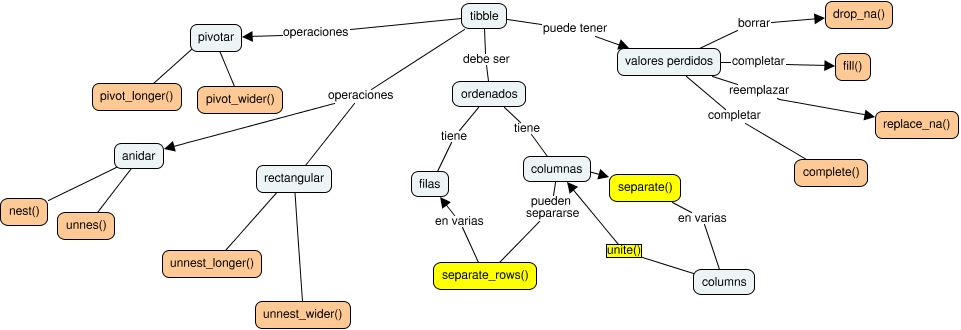
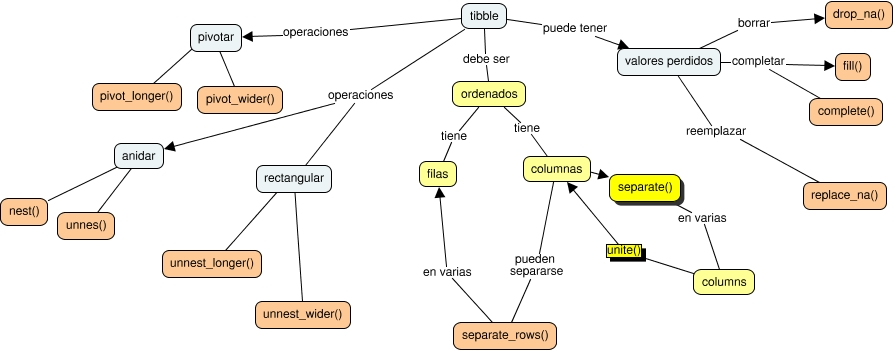
map

diff --git a/clase.html b/clase.html
@@ -102,12 +102,24 @@ Las funciones de tidyr pueden caer en estas 5 categorías:
 
 ---
 
-# Mapa Conceptual 
+# Mapa Conceptual del tema
 
 &lt;br&gt;&lt;br&gt;
 
 
 &lt;img src="img/map.jpg" width="130%" style="display: block; margin: auto;" /&gt;
+
+
+
+---
+
+
+# En esta clase
+
+&lt;br&gt;
+
+
+&lt;img src="img/map2.png" width="130%" style="display: block; margin: auto;" /&gt;
 
 
 
